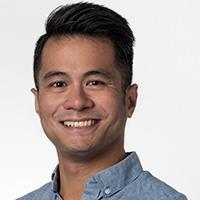
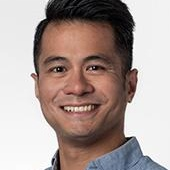
Homepage hero: full name, recentered photo, shorter bio with link
- "Dr. Joshua Peñalba" -> "Dr. Joshua V. Peñalba" in the H1.
- Re-cropped joshua-headshot.jpg: the face sat ~15px left of center
  in the original square (object-fit:cover can't fix this since the
  image and avatar circle share the same 1:1 aspect ratio, so there
  was nothing for CSS to crop). Trimmed the excess background from
  the right side instead so the face lands dead-center.
- Shortened the bio to a single sentence and linked "Center for
  Integrative Biodiversity Discovery" to its page on the museum site,
  styled to match the tagline's accent green with an underline so
  it reads as a link against the dark header.

Claude-Session: https://claude.ai/code/session_01AUPcRiyersWJzaWGnZAT8G

diff --git a/index.html b/index.html
@@ -215,6 +215,8 @@
     font-size: 1.02rem;
   }
   .dark-header .lede{ color: var(--dark-ink-soft); max-width: 46ch; }
+  .lede a{ color: #8FBFA8; text-decoration: underline; text-underline-offset: 2px; }
+  .lede a:hover{ color: #F8F7F2; }
   .rule{
     height: 2px;
     width: 64px;
@@ -492,9 +494,9 @@
       </div>
       <div>
         <p class="eyebrow">Museum für Naturkunde, Berlin</p>
-        <h1>Dr. Joshua Peñalba</h1>
+        <h1>Dr. Joshua V. Peñalba</h1>
         <p class="tagline">evolution &middot; genomics &middot; speciation</p>
-        <p class="lede">I am a group leader and researcher in museomics in the Center for Integrative Biodiversity Discovery in the Museum für Naturkunde, Berlin. My primary research interest is in understanding how genome divergence accumulates during speciation.</p>
+        <p class="lede">Group leader and researcher in museomics in the <a href="https://www.museumfuernaturkunde.berlin/en/the-museum/about-us/science-programmes/dynamics-of-nature/center-for-integrative-biodiversity-discovery/" target="_blank" rel="noopener">Center for Integrative Biodiversity Discovery</a></p>
       </div>
     </div>
   </div>
